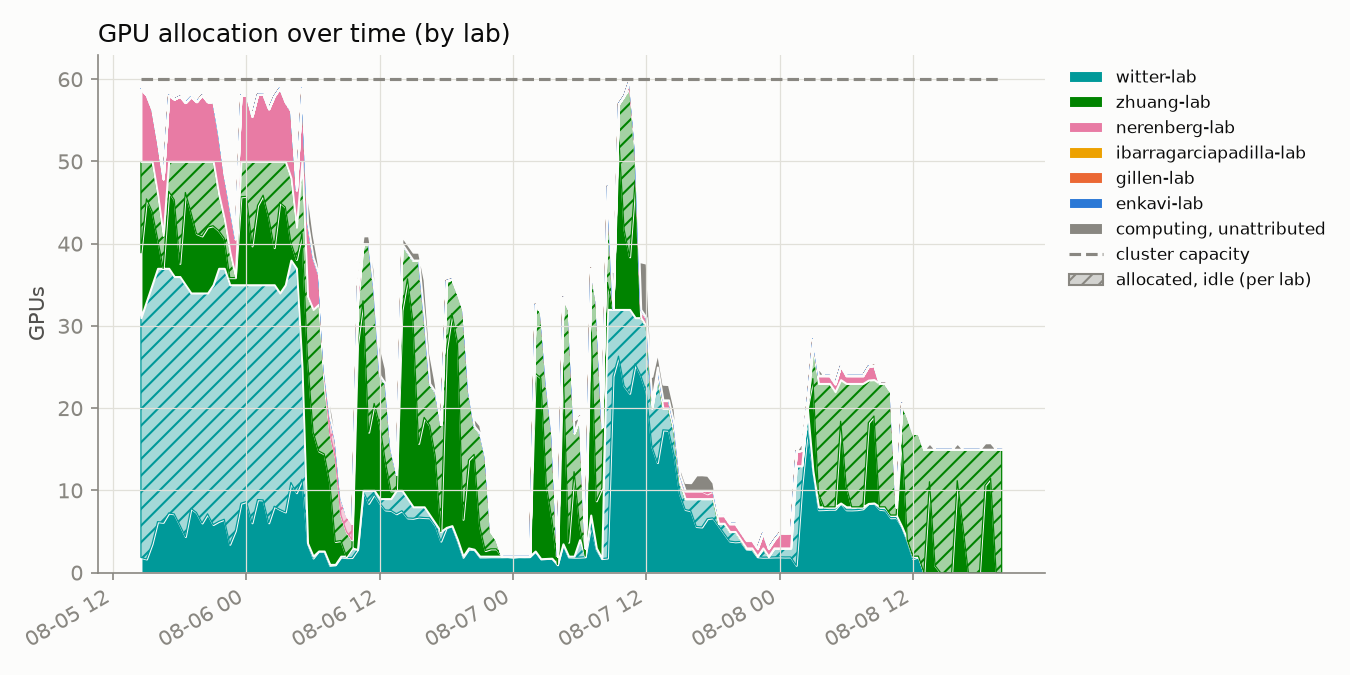
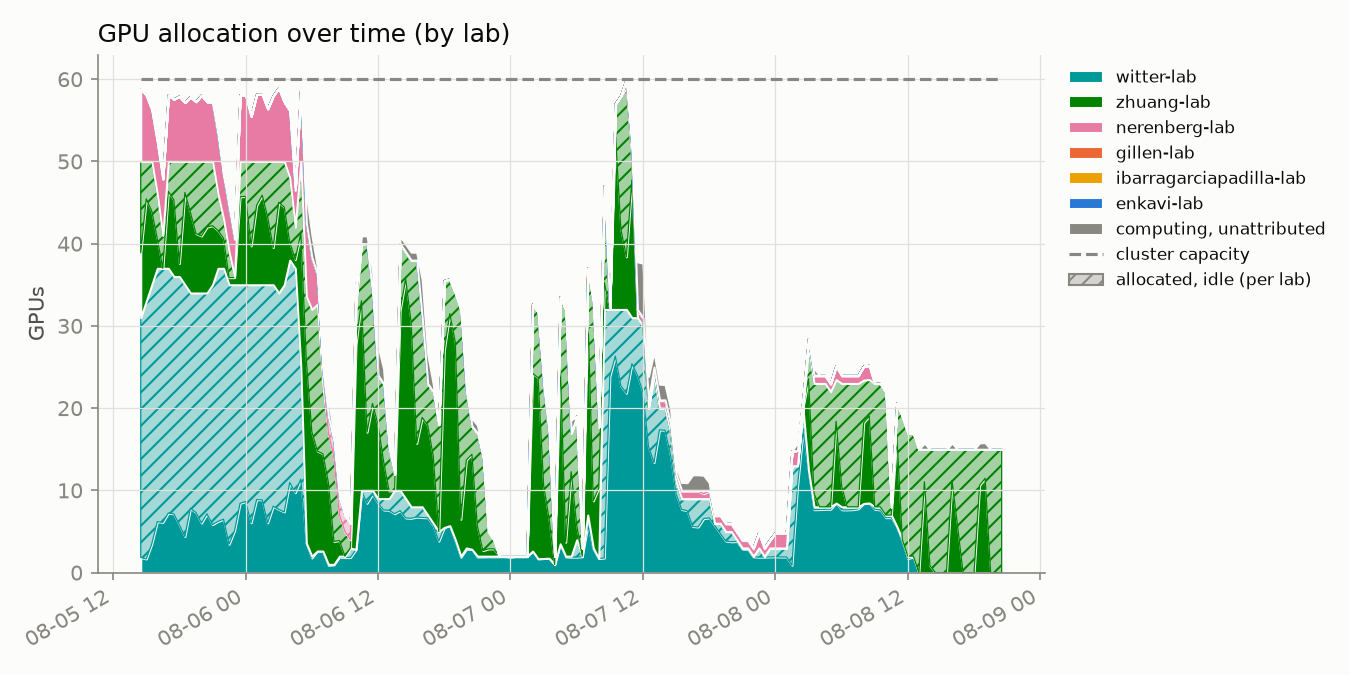
update 2026-08-08T20:30:01-07:00

diff --git a/README.md b/README.md
@@ -2,8 +2,8 @@
 
 Automated GPU/CPU/queue utilization tracker for `hopper.cluster`, updated every 30 minutes by cron. Usernames are anonymized to a stable per-account pseudonym; lab names are real.
 
-Last updated: 2026-08-08T20:00:10-07:00
-Samples: 156 queue snapshots, 156 GPU snapshots
+Last updated: 2026-08-08T20:30:10-07:00
+Samples: 157 queue snapshots, 157 GPU snapshots
 
 ## Resources
 
@@ -16,25 +16,25 @@ Samples: 156 queue snapshots, 156 GPU snapshots
 
 ## Headline
 
-- **42.7%** of the cluster's 60 GPUs allocated, averaged across all samples
-- **45.6%** average `nvidia-smi` utilization *when* a GPU is allocated to a job
+- **42.6%** of the cluster's 60 GPUs allocated, averaged across all samples
+- **45.4%** average `nvidia-smi` utilization *when* a GPU is allocated to a job
 - **88.4%** average cgroup CPU utilization *when* a CPU is allocated to a job
 
 ## Per lab / per user
 
 <table>
 <tr><th>Lab</th><th>User</th><th align='right'>GPU-hours allocated</th><th align='right'>CPU-hours allocated</th><th align='right'>GPU utilization</th></tr>
-<tr style='background-color:#d8ecd8'><td>zhuang-lab</td><td>user-0db9ced0</td><td align='right'>977.0</td><td align='right'>977.0</td><td align='right'>42%</td></tr>
+<tr style='background-color:#d8ecd8'><td>zhuang-lab</td><td>user-0db9ced0</td><td align='right'>984.5</td><td align='right'>984.5</td><td align='right'>42%</td></tr>
 <tr style='background-color:#d8efef'><td>witter-lab</td><td>user-554c620c</td><td align='right'>493.5</td><td align='right'>1023.0</td><td align='right'>68%</td></tr>
 <tr style='background-color:#d8efef'><td>witter-lab</td><td>user-d58f5a15</td><td align='right'>467.5</td><td align='right'>3740.0</td><td align='right'>9%</td></tr>
 <tr style='background-color:#fbebf1'><td>nerenberg-lab</td><td>user-6bb5f332</td><td align='right'>40.0</td><td align='right'>200.0</td><td align='right'>71%</td></tr>
 <tr style='background-color:#fbebf1'><td>nerenberg-lab</td><td>user-fedb5feb</td><td align='right'>22.5</td><td align='right'>54.0</td><td align='right'>67%</td></tr>
-<tr style='background-color:#fcf0d8'><td>ibarragarciapadilla-lab</td><td>user-dad71a72</td><td align='right'>0.0</td><td align='right'>6.0</td><td align='right'>—</td></tr>
 <tr style='background-color:#fcf0d8'><td>ibarragarciapadilla-lab</td><td>user-3cfc41a3</td><td align='right'>0.0</td><td align='right'>4080.0</td><td align='right'>—</td></tr>
-<tr style='background-color:#fbebf1'><td>nerenberg-lab</td><td>user-b12dc074</td><td align='right'>0.0</td><td align='right'>16.0</td><td align='right'>—</td></tr>
-<tr style='background-color:#dfeaf8'><td>enkavi-lab</td><td>user-c21bdaa4</td><td align='right'>0.0</td><td align='right'>209.0</td><td align='right'>—</td></tr>
-<tr style='background-color:#fce8e0'><td>gillen-lab</td><td>user-b89a87ef</td><td align='right'>0.0</td><td align='right'>924.0</td><td align='right'>—</td></tr>
+<tr style='background-color:#fcf0d8'><td>ibarragarciapadilla-lab</td><td>user-dad71a72</td><td align='right'>0.0</td><td align='right'>6.0</td><td align='right'>—</td></tr>
 <tr style='background-color:#fcf0d8'><td>ibarragarciapadilla-lab</td><td>user-eec7ffae</td><td align='right'>0.0</td><td align='right'>426.5</td><td align='right'>—</td></tr>
+<tr style='background-color:#dfeaf8'><td>enkavi-lab</td><td>user-c21bdaa4</td><td align='right'>0.0</td><td align='right'>209.0</td><td align='right'>—</td></tr>
+<tr style='background-color:#fce8e0'><td>gillen-lab</td><td>user-b89a87ef</td><td align='right'>0.0</td><td align='right'>936.0</td><td align='right'>—</td></tr>
+<tr style='background-color:#fbebf1'><td>nerenberg-lab</td><td>user-b12dc074</td><td align='right'>0.0</td><td align='right'>16.0</td><td align='right'>—</td></tr>
 </table>
 
 ## Usage over time
@@ -45,7 +45,7 @@ Samples: 156 queue snapshots, 156 GPU snapshots
 
 Solid = utilized by lab, hatched = allocated but idle, gray = usage not traceable to a lab, dashed line = cluster capacity.
 
-Attribution combines `nvidia-smi`'s process listing with Slurm's GPU-to-job binding record; the latter caught **2875** readings the former missed.
+Attribution combines `nvidia-smi`'s process listing with Slurm's GPU-to-job binding record; the latter caught **2886** readings the former missed.
 
 ## Queue
 
@@ -57,13 +57,13 @@ Attribution combines `nvidia-smi`'s process listing with Slurm's GPU-to-job bind
 
 ![CPU usage vs GPU usage, decayed](assets/cpu_gpu_usage.png)
 
-One point per user per snapshot (n=737), usage decayed on Slurm's ~7-day fairshare half-life.
+One point per user per snapshot (n=739), usage decayed on Slurm's ~7-day fairshare half-life.
 
 **GPU usage doesn't count toward priority on this cluster** (`TRESBillingWeights`/`PriorityWeightTRES` unset) - watch the **upper-left**: low CPU usage (high priority) with high GPU usage.
 
 ## Recommendations
 
-1. **Weight GPU usage in fairshare.** `TRESBillingWeights` and `PriorityWeightTRES` are both unset right now, so Slurm's fairshare score only sees CPU-seconds - a job holding 4 idle L40S GPUs costs nothing in priority as long as it isn't also holding CPUs. That's the exact failure mode the scatter above is built to catch (upper-left: low CPU usage, high GPU usage). Fix: `scontrol update partition=main TRESBillingWeights=CPU=1.0,GRES/gpu=<weight>` (or set `PriorityWeightTRES` cluster-wide), then `scontrol reconfigure` - a full `slurmctld` restart also works but drops in-flight priority state. A reasonable starting point for `<weight>` is the CPUs-per-GPU ratio on a GPU node (128 CPUs / 4 GPUs = 32), so one GPU costs as much fairshare as the CPU share it displaces; tune from there against next week's headline numbers (42.7% allocated, 45.6% utilized when allocated, as of this snapshot). The weight value itself is a policy call - loop in whoever owns cluster allocation policy before changing it.
+1. **Weight GPU usage in fairshare.** `TRESBillingWeights` and `PriorityWeightTRES` are both unset right now, so Slurm's fairshare score only sees CPU-seconds - a job holding 4 idle L40S GPUs costs nothing in priority as long as it isn't also holding CPUs. That's the exact failure mode the scatter above is built to catch (upper-left: low CPU usage, high GPU usage). Fix: `scontrol update partition=main TRESBillingWeights=CPU=1.0,GRES/gpu=<weight>` (or set `PriorityWeightTRES` cluster-wide), then `scontrol reconfigure` - a full `slurmctld` restart also works but drops in-flight priority state. A reasonable starting point for `<weight>` is the CPUs-per-GPU ratio on a GPU node (128 CPUs / 4 GPUs = 32), so one GPU costs as much fairshare as the CPU share it displaces; tune from there against next week's headline numbers (42.6% allocated, 45.4% utilized when allocated, as of this snapshot). The weight value itself is a policy call - loop in whoever owns cluster allocation policy before changing it.
 
 2. **Escalate on sustained low utilization** (see table and scatter above). Right now the clearest candidate is `user-d58f5a15` in `witter-lab`: 467.5 GPU-hours allocated at 9% average utilization, i.e. roughly 424 GPU-hours that sat idle instead of going to someone in the queue. Turning that into an automated escalation needs two decisions made up front: a utilization threshold (something like under 20% mean utilization over at least 50 allocated GPU-hours is a defensible starting bar - loose enough to skip short debugging runs, tight enough to catch parked allocations) and a grace period (how many consecutive low-utilization snapshots before it counts as "sustained" rather than a momentary lull between batches). Once those are set, the mechanism can be either soft (a bot that reads `data/gpu_samples.jsonl` and reminds the user/lab by email or Slack) or hard (a Slurm-side QOS penalty, e.g. `sacctmgr modify qos <qos> set Priority-=<n>`, applied after N consecutive offending snapshots). Neither exists yet - today the table and scatter above are a read-only signal, not an enforced policy.
 
